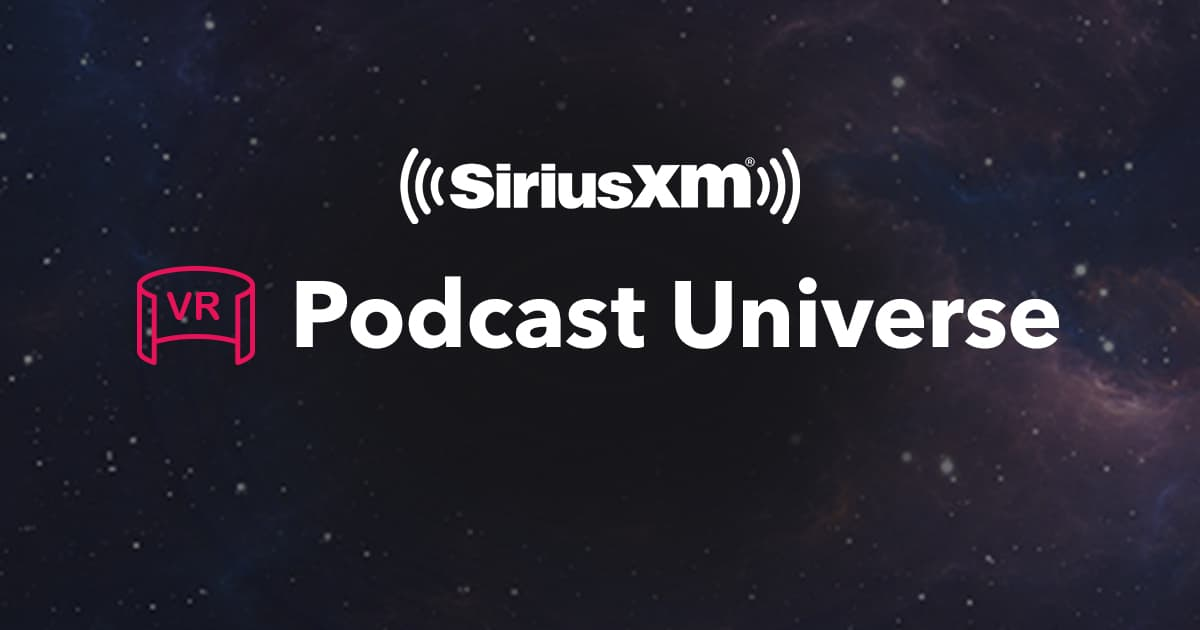
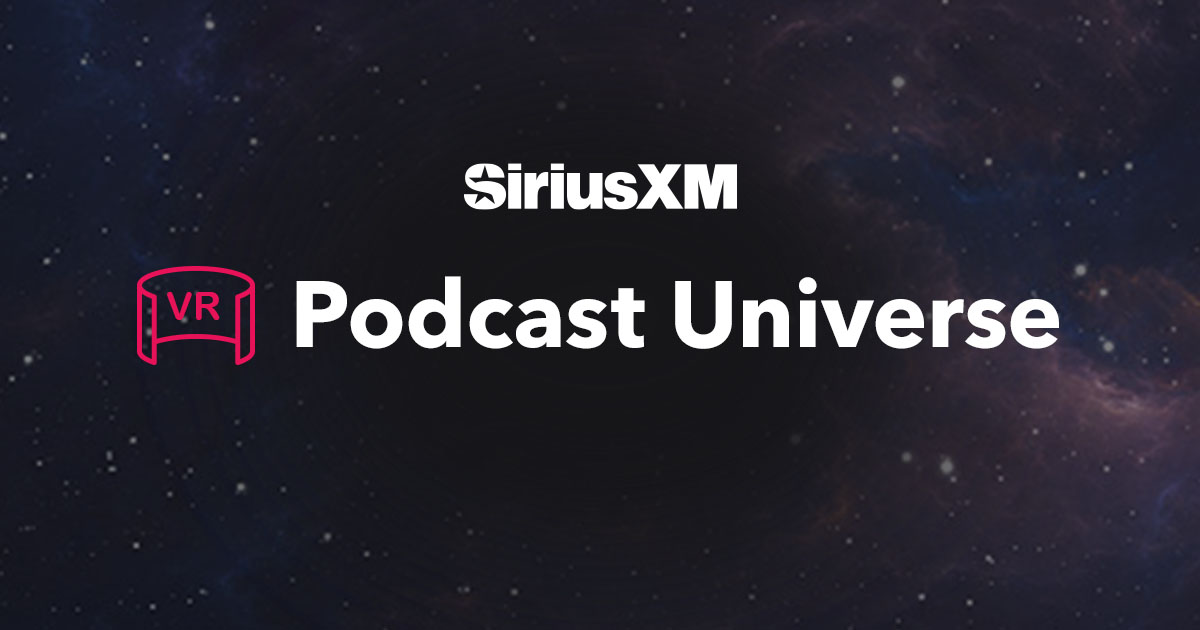
update branding

Changed region(s): [[0.3083, 0.2413, 0.6783, 0.3619], [0.0925, 0.4222, 0.2158, 0.573]]

diff --git a/src/index.html b/src/index.html
@@ -10,7 +10,7 @@
     <!-- End Google Tag Manager -->
     <meta charset="utf-8"/>
     <title><%= htmlWebpackPlugin.options.title %></title>
-    <meta name="description" content="Hundreds of exclusive podcasts, ready to be explored. Dive into the SXM Podcast Universe and see what's possible.">
+    <meta name="description" content="Hundreds of exclusive podcasts, ready to be explored. Dive into the SiriusXM Podcast Universe and see what's possible.">
     <script src="js/aframe.min.js"></script>
     <script src="js/aframe-extras.min@6.1.1.js"></script>
     <script src="js/xylayout-all.min.js"></script>
@@ -18,18 +18,16 @@
     <script src="components.min.js"></script>
     <link rel="icon" href="images/favicon.ico" type="image/x-icon" />
     <link rel="apple-touch-icon" sizes="180x180" href="images/apple-touch-icon.png" />
-    <link rel="icon" type="image/png" sizes="32x32" href="images/favicon-32x32.png" />
-    <link rel="icon" type="image/png" sizes="16x16" href="images/favicon-16x16.png" />
     <link href="https://images.ctfassets.net" rel="preconnect" crossorigin>
     <link rel="dns-prefetch" href="https://images.ctfassets.net" />
 
-    <meta property="og:url" content="https://vr-podcast-universe.netlify.app" />
+    <meta property="og:url" content="https://vr-podcastuniverse.siriusxmmedia.com" />
     <meta property="og:type" content="website" />
     <meta property="og:title" content="<%= htmlWebpackPlugin.options.title %>" />
     <meta property="og:description" content="Hundreds of exclusive podcasts, ready to be explored. Dive into the SXM Podcast Universe and see what's possible." />
-    <meta property="og:image" content="https://vr-podcast-universe.netlify.app/images/og-image.jpg" />
-    <meta property="og:image:url" content="https://vr-podcast-universe.netlify.app/images/og-image.jpg" />
-    <meta property="og:image:secure_url" content="https://vr-podcast-universe.netlify.app/images/og-image.jpg" />
+    <meta property="og:image" content="https://vr-podcastuniverse.siriusxmmedia.com/images/og-image.jpg" />
+    <meta property="og:image:url" content="https://vr-podcastuniverse.siriusxmmedia.com/images/og-image.jpg" />
+    <meta property="og:image:secure_url" content="https://vr-podcastuniverse.siriusxmmedia.com/images/og-image.jpg" />
 
   </head>
   <body>
@@ -571,8 +569,8 @@
 
     <footer>
       <ul class="legal">
-        <li><a href="https://www.sxmmedia.com/privacy-policy" target="_blank">Privacy Policy</a></li>
-        <li><a href="https://www.sxmmedia.com/terms" target="_blank">Terms</a></li>
+        <li><a href="https://www.siriusxmmedia.com/privacy-policy" target="_blank">Privacy Policy</a></li>
+        <li><a href="https://www.siriusxmmedia.com/terms" target="_blank">Terms</a></li>
       </ul>
     </footer>
 
